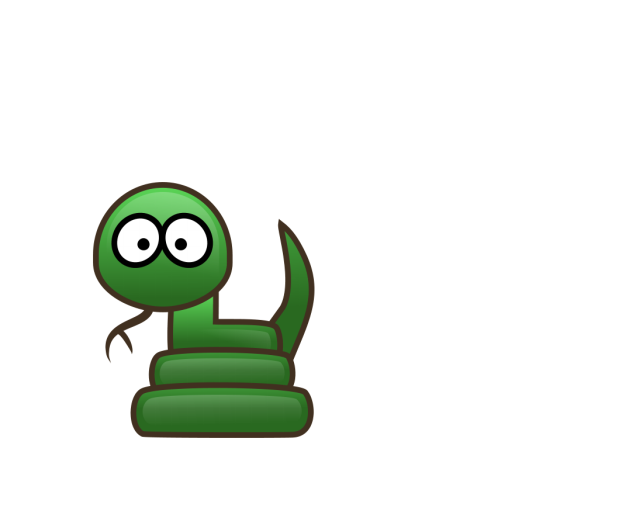
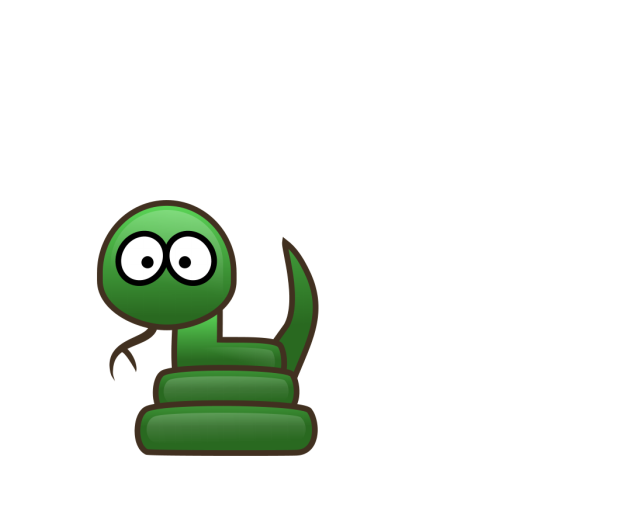
added extra characters

Changed region(s): [[0.125, 0.3385, 0.5, 0.8923]]

diff --git a/xkaa.py b/xkaa.py
@@ -43,9 +43,11 @@ class Puppet():
 		self.character = character
 		self.font = font
 		self.imgdir = imgdir
-		self.imagefile = os.path.join(self.imgdir,self.character+".png")
+		self.imagefile = os.path.join(self.imgdir,'ab'+self.character+".png")
+		self.characterpic = os.path.join(self.imgdir,self.character+".png")
 		self.dreamballoon = os.path.join(self.imgdir,"dream.png")
 		self.dreambase = os.path.join(self.imgdir,"dreambase.png")
+		self.bigbase = os.path.join(self.imgdir,"bigbase.png")
 		self.minidream = os.path.join(self.imgdir,"minidream.png")
 		self.empty = os.path.join(self.imgdir,"empty.png")
 		self.balloonbase = os.path.join(self.imgdir,"balloonbase.png")
@@ -123,6 +125,11 @@ class Puppet():
 		out = Image.alpha_composite(base, overlay)
 		out.save(self.balloonbase)
 		return self.balloonbase
+
+	def draw_base(self):
+		posx = 80
+		posy = 200
+		myimage = combine_sources(posx,posy,self.bigbase,self.characterpic,self.imagefile)
 	
 	def build_popup(self):
 
@@ -130,8 +137,8 @@ class Puppet():
 		self.baloon=self.draw_balloons(balloontype=self.verb)
 
 		if self.verb == 'say':
-			self.origx = 200; self.origy = 50
-			self.textX = 280; self.textY = 95
+			self.origx = 230; self.origy = 50
+			self.textX = 310; self.textY = 95
 		elif self.verb == 'think':
 			self.origx = 220; self.origy = 10
 			self.textX = 300; self.textY = 55
@@ -145,9 +152,10 @@ class Puppet():
 			self.origx = 190; self.origy = 10
 			self.textX = 260; self.textY = 55
 
-		# combine images together
+		# combine images together - Main 
 		self.combo = "images/output.png"
 		self.draw_balloons(balloontype=self.verb)
+		self.draw_base()
                 myimage = combine_sources(self.origx,self.origy,self.imagefile,self.baloon,self.combo)
 	
                 # draw text
